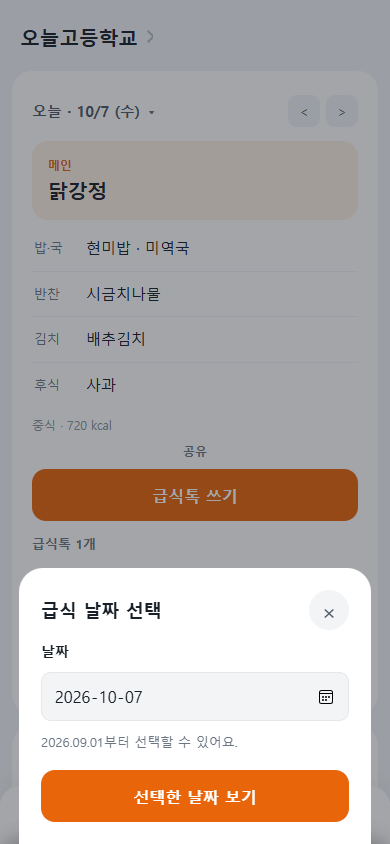
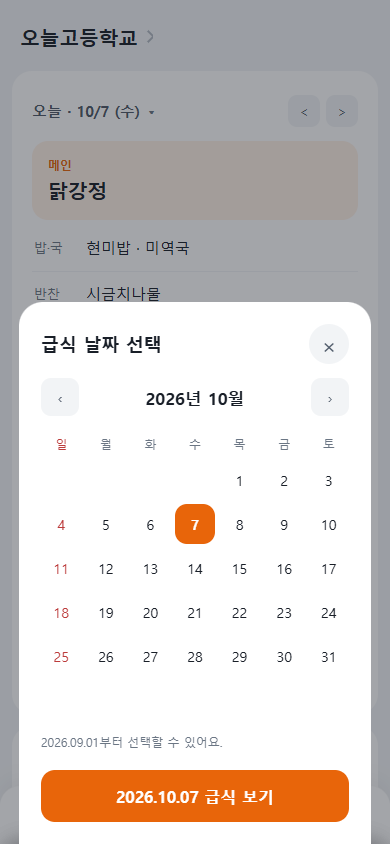
Use monthly calendar for home meal date picker

diff --git a/index.html b/index.html
@@ -1404,13 +1404,42 @@ function selectMyMealDate(value) {
 function openMyMealDatePicker() {
   const dialog = communityDialog('급식 날짜 선택');
   const minimum = myMealDateMinimum();
-  dialog.querySelector('.dialog-body').innerHTML = `<form class="meal-date-form"><label for="meal-date-input">날짜</label><input type="date" id="meal-date-input" min="${minimum}" value="${fmtDate(myMealDate)}" required aria-describedby="meal-date-help"><p id="meal-date-help">${minimum.replaceAll('-', '.')}부터 선택할 수 있어요.</p><button type="submit" class="rating-launch">선택한 날짜 보기</button></form>`;
-  const form = dialog.querySelector('form');
-  form.onsubmit = event => {
-    event.preventDefault();
-    const input = form.querySelector('input');
-    if (input.reportValidity() && selectMyMealDate(input.value)) dialog.close();
-  };
+  let selected = fmtDate(myMealDate) < minimum ? minimum : fmtDate(myMealDate);
+  const [year, month] = selected.split('-').map(Number);
+  let shownMonth = new Date(year, month - 1, 1, 12);
+  const today = new Intl.DateTimeFormat('sv-SE', { timeZone: 'Asia/Seoul', year: 'numeric', month: '2-digit', day: '2-digit' }).format(new Date());
+  const body = dialog.querySelector('.dialog-body');
+  function renderCalendar() {
+    const year = shownMonth.getFullYear(), month = shownMonth.getMonth();
+    const firstWeekday = new Date(year, month, 1).getDay();
+    const dayCount = new Date(year, month + 1, 0).getDate();
+    const days = Array.from({ length: 42 }, (_, index) => {
+      const day = index - firstWeekday + 1;
+      if (day < 1 || day > dayCount) return '<span class="calendar-blank" aria-hidden="true"></span>';
+      const value = fmtDate(new Date(year, month, day));
+      return `<button type="button" class="calendar-day${value === today ? ' today' : ''}" data-date="${value}" aria-label="${year}년 ${month + 1}월 ${day}일" aria-pressed="${value === selected}"${value === today ? ' aria-current="date"' : ''}${value < minimum ? ' disabled' : ''}>${day}</button>`;
+    }).join('');
+    body.innerHTML = `<div class="meal-calendar"><div class="calendar-heading"><button type="button" class="date-btn calendar-nav" data-delta="-1" aria-label="이전 달"${fmtDate(shownMonth).slice(0, 7) <= minimum.slice(0, 7) ? ' disabled' : ''}>‹</button><strong aria-live="polite">${year}년 ${month + 1}월</strong><button type="button" class="date-btn calendar-nav" data-delta="1" aria-label="다음 달">›</button></div><div class="calendar-weekdays" aria-hidden="true">${['일','월','화','수','목','금','토'].map(day => `<span>${day}</span>`).join('')}</div><div class="calendar-days" role="group" aria-label="날짜 선택">${days}</div><p class="calendar-help">${minimum.replaceAll('-', '.')}부터 선택할 수 있어요.</p><button type="button" class="rating-launch calendar-confirm">${selected.replaceAll('-', '.')} 급식 보기</button></div>`;
+  }
+  body.addEventListener('click', event => {
+    const day = event.target.closest('.calendar-day');
+    if (day && !day.disabled) {
+      selected = day.dataset.date;
+      renderCalendar();
+      body.querySelector(`[data-date="${selected}"]`)?.focus({ preventScroll: true });
+      return;
+    }
+    const nav = event.target.closest('.calendar-nav');
+    if (nav && !nav.disabled) {
+      const delta = Number(nav.dataset.delta);
+      shownMonth = new Date(shownMonth.getFullYear(), shownMonth.getMonth() + delta, 1, 12);
+      renderCalendar();
+      body.querySelector(`[data-delta="${delta}"]`)?.focus({ preventScroll: true });
+      return;
+    }
+    if (event.target.closest('.calendar-confirm') && selectMyMealDate(selected)) dialog.close();
+  });
+  renderCalendar();
 }
 function changeMyMealDate(delta) {
   const next = new Date(myMealDate);

diff --git a/community.css b/community.css
@@ -274,7 +274,16 @@ body[data-tab]:not([data-tab="home"]) .appbar{display:none}
 .date-picker-trigger{border:0;background:none;padding:8px 0;font-family:inherit;cursor:pointer}
 .date-picker-trigger span{font-size:12px;color:var(--text3)}
 .date-btn:disabled{opacity:.35;cursor:default}
-.meal-date-form{display:flex;flex-direction:column;gap:12px}
-.meal-date-form label{font-size:14px;font-weight:600}
-.meal-date-form input{width:100%;min-width:0;min-height:48px;border:1px solid var(--border);border-radius:10px;background:var(--fill);padding:12px;color:var(--text);font:inherit;box-sizing:border-box}
-.meal-date-form p{margin:0 0 8px;color:var(--text3);font-size:13px}
+.meal-calendar{padding:2px 0 0}
+.calendar-heading{display:flex;align-items:center;justify-content:space-between;margin-bottom:20px}
+.calendar-heading strong{font-size:17px}
+.calendar-weekdays,.calendar-days{display:grid;grid-template-columns:repeat(7,minmax(0,1fr));gap:4px}
+.calendar-weekdays{margin-bottom:8px;color:var(--text3);font-size:12px;text-align:center}
+.calendar-weekdays span:first-child{color:#bc3b3b}
+.calendar-day,.calendar-blank{height:40px;min-width:0}
+.calendar-day{border:0;border-radius:12px;background:none;color:var(--text);font:inherit;font-size:14px;cursor:pointer}
+.calendar-day:nth-child(7n+1){color:#bc3b3b}
+.calendar-day.today{box-shadow:inset 0 0 0 1px var(--border);font-weight:700}
+.calendar-day[aria-pressed=true]{background:var(--brand-fill,#f66b00);color:#fff;font-weight:700;box-shadow:none}
+.calendar-day:disabled{color:var(--text3);opacity:.35;cursor:default}
+.calendar-help{margin:14px 0 20px;font-size:12px;color:var(--text3)}

diff --git a/docs/ux-review/README.md b/docs/ux-review/README.md
@@ -59,9 +59,11 @@ No master merge, remote push, GitHub Pages deployment or live release was perfor
 
 ## Home date picker
 
-- Tapping the home meal date opens an accessible date input sheet.
+- Tapping the home meal date opens a monthly calendar sheet with weekday headings, selectable days and previous/next month buttons.
 - Earliest selectable date is the first of the previous month in Asia/Seoul (2026-10-07 -> 2026-09-01).
 - No new upper bound was added. Explicit weekend selection is preserved; arrow navigation keeps its weekday shortcut and respects the lower bound.
-- Native input validity and application validation both reject older dates.
+- Calendar month navigation and application validation both prevent selection before the previous month.
 - Verified selected date in the sync-meals request, disabled previous arrow at the minimum, year rollover in Korea time and weekend selection. Browser tests and build passed.
 - Local ux-review update only; the previous Toss test version has not been replaced.
+
+- Calendar UI revision: selected day is highlighted, today is outlined, weekends can be selected directly, and the chosen date is applied via the bottom confirmation button. Mobile click tests and build passed.
